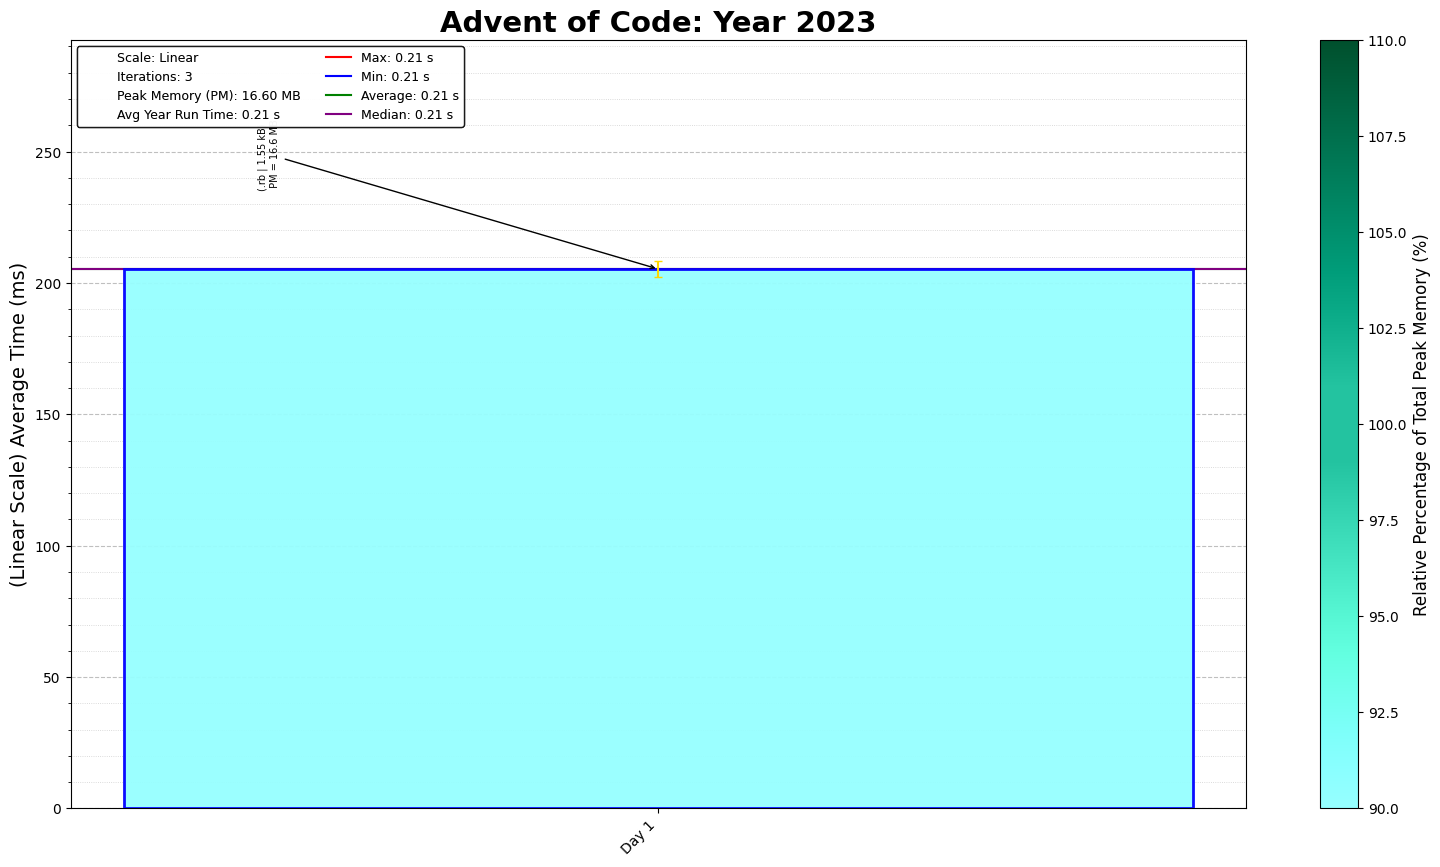
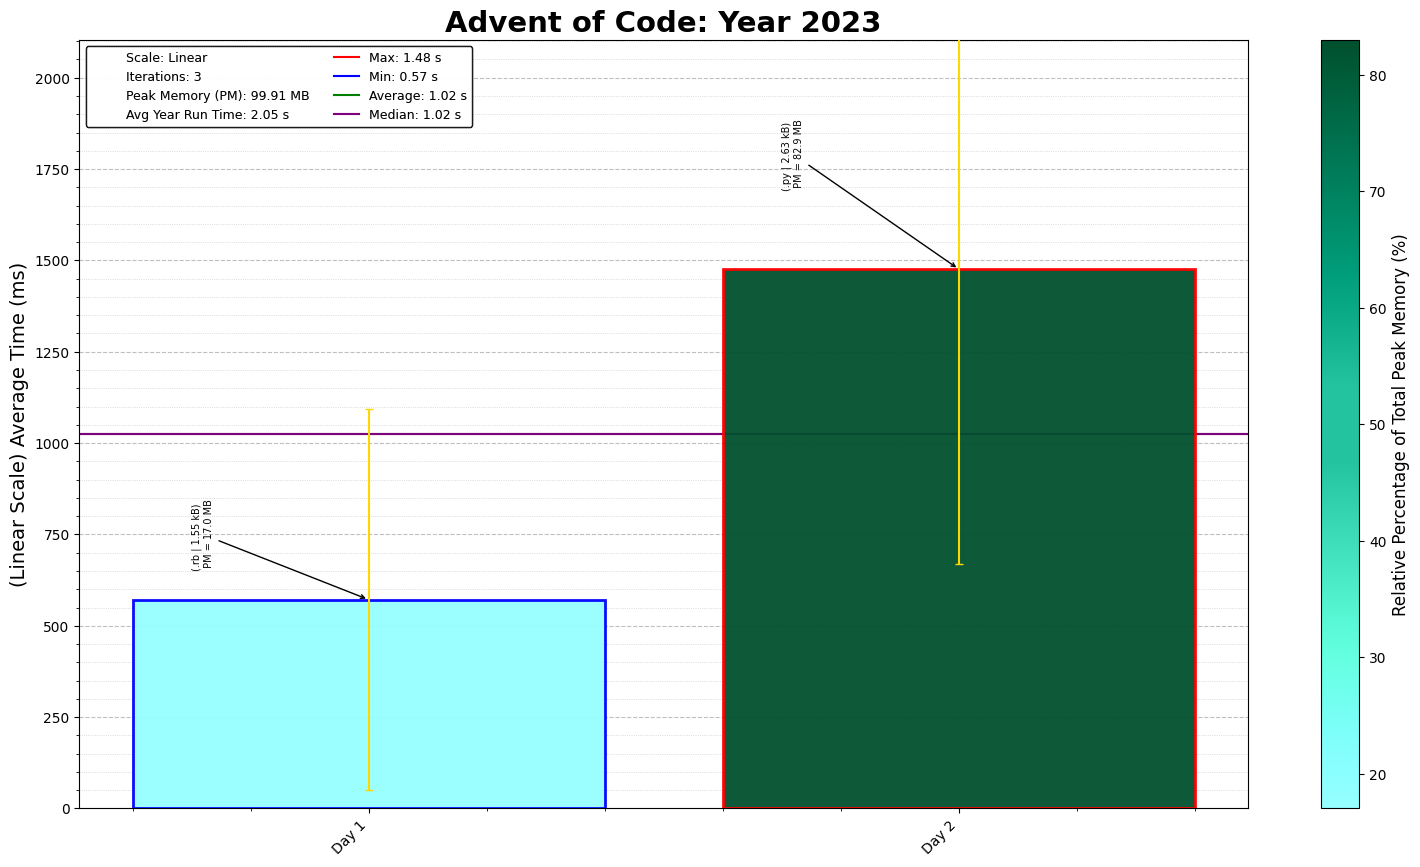
2023 Day 2

diff --git a/2023/02/2023Day02.py b/2023/02/2023Day02.py
@@ -1,0 +1,75 @@
+"""Advent of Code - Day 2, Year 2023
+Solution Started: Dec 17, 2024
+Puzzle Link: https://adventofcode.com/2023/day/2
+Solution by: abbasmoosajee07
+Brief: [Drawing random cubes]
+"""
+
+#!/usr/bin/env python3
+
+import os, re, copy
+import numpy as np
+import pandas as pd
+import matplotlib.pyplot as plt
+
+# Load the input data from the specified file path
+D02_file = "Day02_input.txt"
+D02_file_path = os.path.join(os.path.dirname(os.path.abspath(__file__)), D02_file)
+
+# Read and sort input data into a grid
+with open(D02_file_path) as file:
+    input_data = file.read().strip().split('\n')
+
+def parse_input(input_games):
+    game_dict = {}
+    for line in input_games:
+        game, all_rounds  = line.split(': ')
+        game_no = int(game.strip('Game '))
+        round_list = all_rounds.split('; ')
+        cube_list = []
+        for round in round_list:
+            round_dict = {}
+            for cube in round.split(', '):
+                round_dict[cube.split(' ')[1]] = int(cube.split(' ')[0])
+            cube_list.append(round_dict)
+        game_dict[game_no] = cube_list
+    return game_dict
+
+def check_valid_games(game_dict):
+    all_valid_games, cubes_power = 0, 0
+
+    for game_no, cube_list in game_dict.items():  # Iterate through games
+        has_red, has_green, has_blue = True, True, True
+        min_red, min_green, min_blue = 0, 0, 0
+        for cube in cube_list:  # Iterate through the list of dictionaries
+            for color, count in cube.items():  # Check each cube's color and count
+                color = color.lower()  # Ensure case-insensitivity
+
+                if color == 'red':
+                    min_red = max(min_red, count)
+                elif color == 'green':
+                    min_green = max(min_green, count)
+                elif color == 'blue':
+                    min_blue = max(min_blue, count)
+
+                if has_red and has_green and has_blue:
+                    if color == 'red' and count > 12:
+                        has_red = False
+                    elif color == 'green' and count > 13:
+                        has_green = False
+                    elif color == 'blue' and count > 14:
+                        has_blue = False
+
+        cubes_power += min_red * min_green * min_blue
+        # If all conditions are met, the game is valid
+        if has_red and has_green and has_blue:
+            all_valid_games += game_no  # Add the game number to the total
+
+    return all_valid_games, cubes_power
+
+game_dict = parse_input(input_data)
+valid_games, cubes_power = check_valid_games(game_dict)
+print("Part 1:", valid_games)
+print("Part 2:", cubes_power)
+
+
